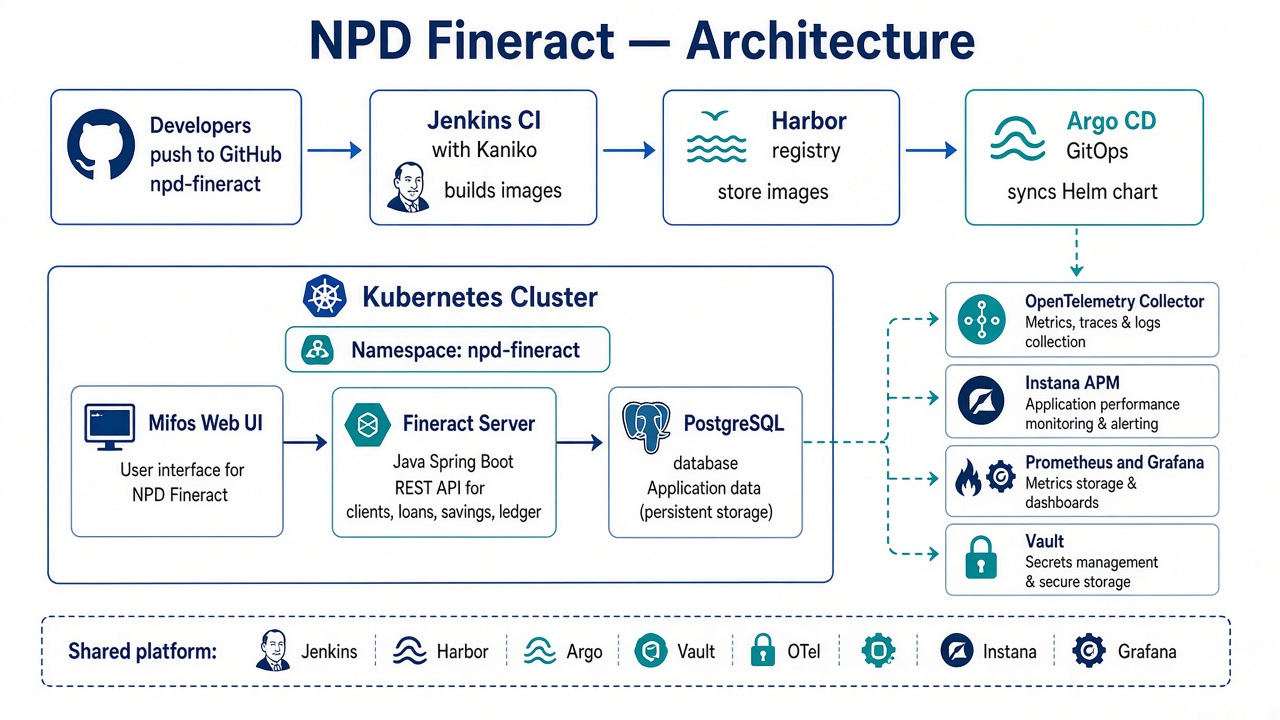
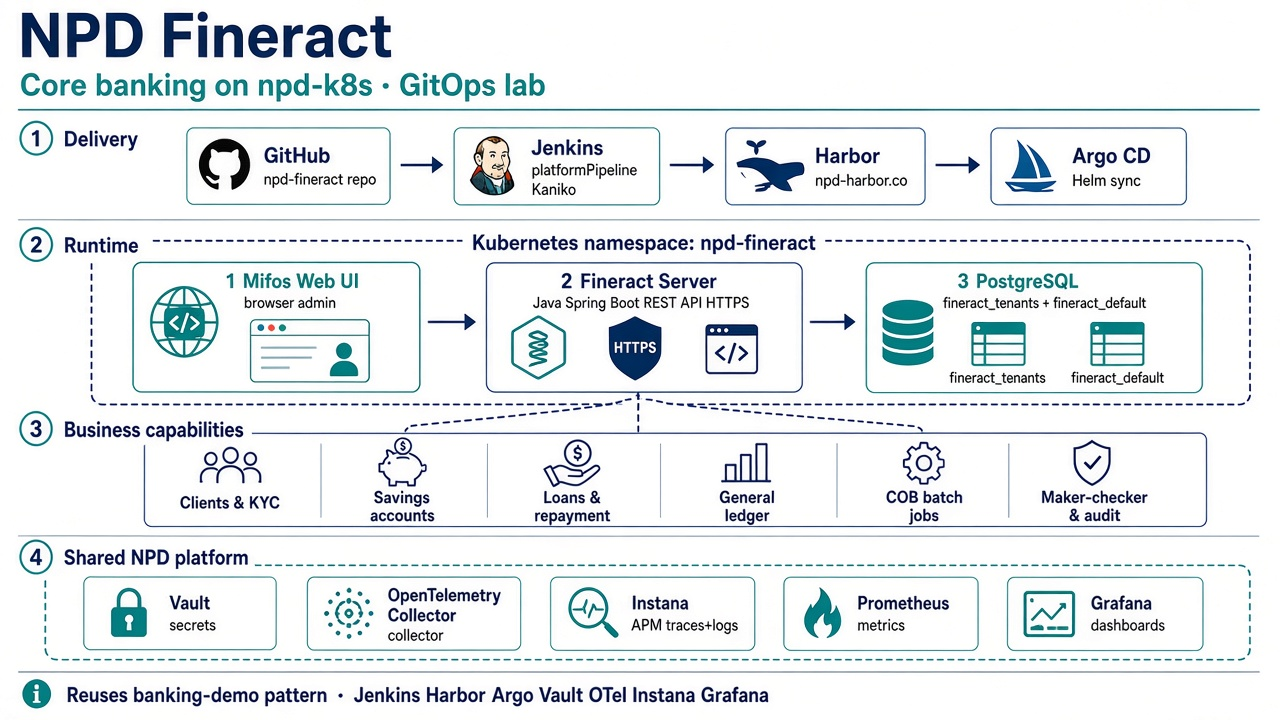
update architect image

Changed region(s): [[0.0, 0.0, 0.9688, 0.9778]]

diff --git a/README.md b/README.md
@@ -4,14 +4,16 @@ Fork nội bộ từ [Apache Fineract](https://github.com/apache/fineract) (Apac
 
 ## Kiến trúc tổng quan (NPD)
 
-![NPD Fineract architecture — GitHub → Jenkins/Harbor → Argo CD → ns npd-fineract (Web UI, Fineract API, Postgres) → OTel/Instana/Grafana/Vault](docs/images/npd-fineract-architecture.jpg)
+![NPD Fineract — Delivery, runtime ns npd-fineract, business capabilities, shared platform](docs/images/npd-fineract-architecture.jpg)
+
+Bốn lớp trên sơ đồ:
 
 | Lớp | Thành phần |
 |-----|------------|
-| **CI/CD** | GitHub `npd-fineract` → Jenkins (`platformPipeline`) → Harbor → Argo CD |
-| **Runtime** | Namespace `npd-fineract`: Mifos Web UI, Fineract Server (REST), PostgreSQL |
-| **Nghiệp vụ** | Client/KYC, savings & loans, ledger, COB, maker-checker (core banking) |
-| **Platform dùng chung** | Vault, OTel Collector, Instana agent, Prometheus/Grafana, Harbor, Argo |
+| **1. Delivery** | GitHub `npd-fineract` → Jenkins (`platformPipeline` / Kaniko) → Harbor → Argo CD (Helm) |
+| **2. Runtime** | Namespace `npd-fineract`: Mifos Web UI → Fineract Server (Java/Spring REST) → PostgreSQL (`fineract_tenants` / `fineract_default`) |
+| **3. Nghiệp vụ** | Clients & KYC · Savings · Loans & repayment · General ledger · COB batch · Maker-checker & audit |
+| **4. Platform dùng chung** | Vault · OpenTelemetry Collector · Instana (traces + logs) · Prometheus · Grafana |
 
 Chi tiết triển khai: [`DEPLOY-PLAN.md`](DEPLOY-PLAN.md) · GitOps lab: [`deploy/dev-k8s/README.md`](deploy/dev-k8s/README.md) · Logs/APM Instana: xem `cloud-native-platform` → `phase9-gitops-platform/instana/LOGS-TO-INSTANA.md`.
 
